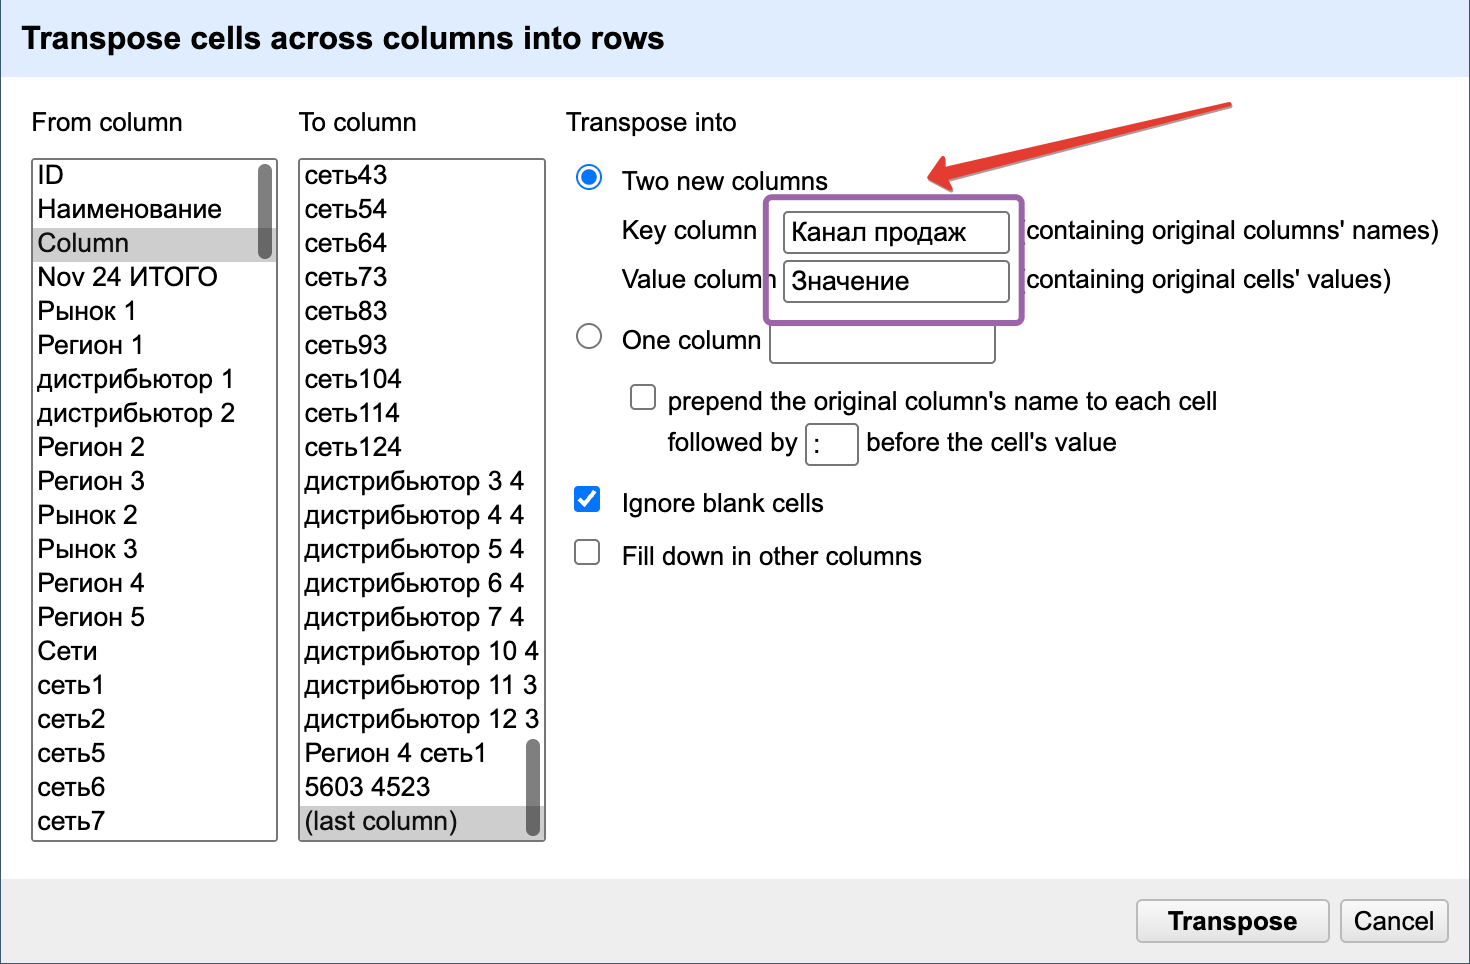
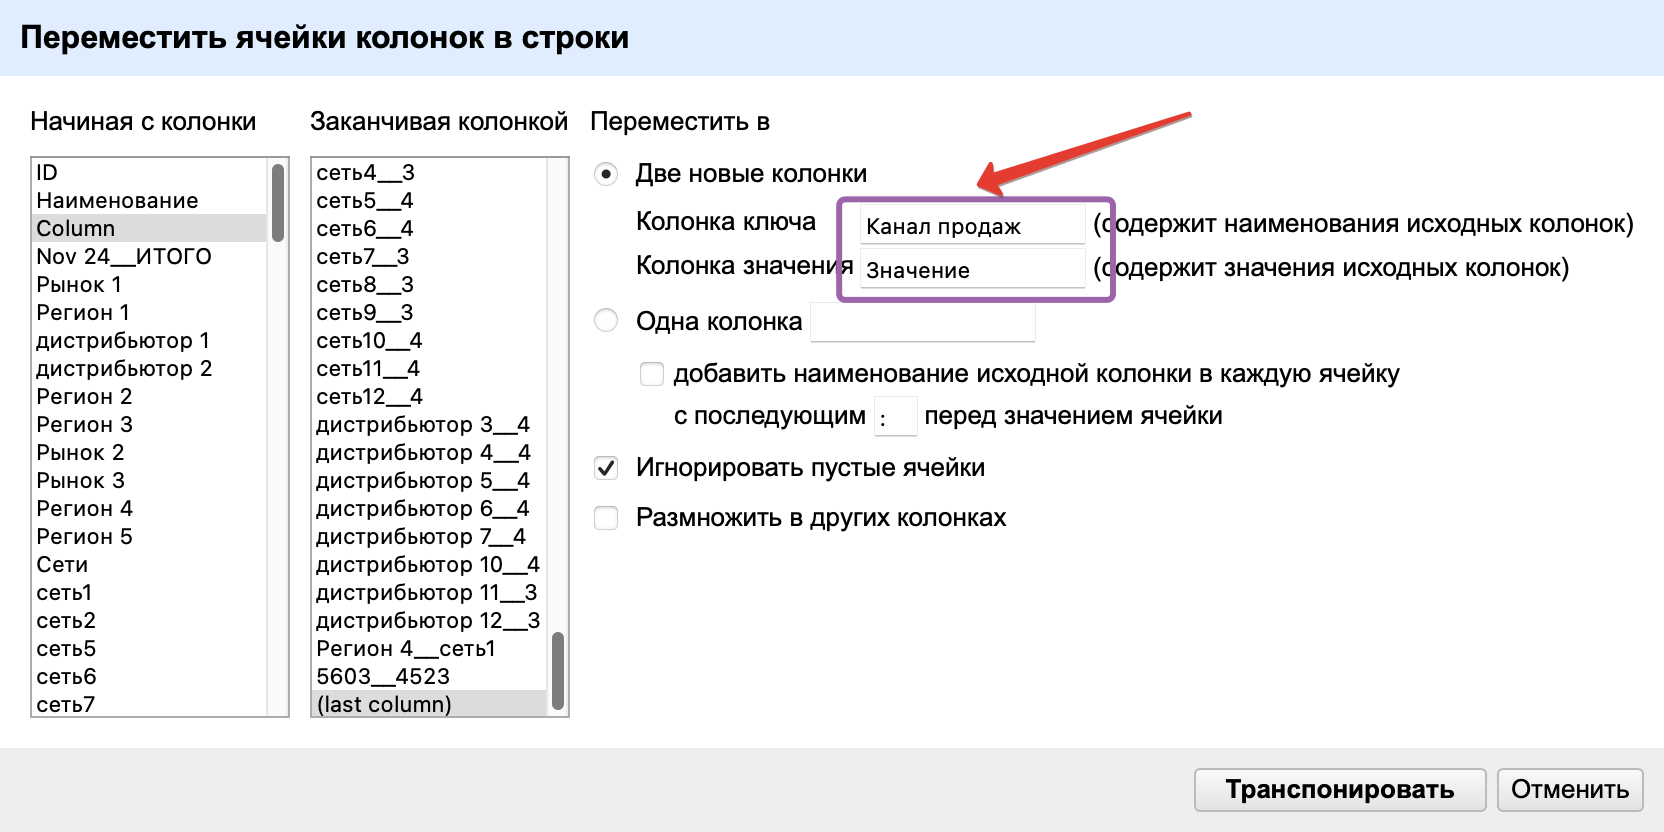
fix(excel_import): russian language

Changed region(s): [[0.0, 0.0, 1.0, 0.875], [0.7347, 0.9062, 1.0, 1.0]]

diff --git a/README.md b/README.md
@@ -62,8 +62,8 @@ curl -L -o "План продаж.xlsx" \
 - Во всплывающем окне проставляем:
 
 ```
-  Key column = Канал продаж
-  Value column = Значение
+  Колонка ключа = Канал продаж
+  Колонка значения = Значение
 ```
 
 ![img](img/transpose_settings.png)
